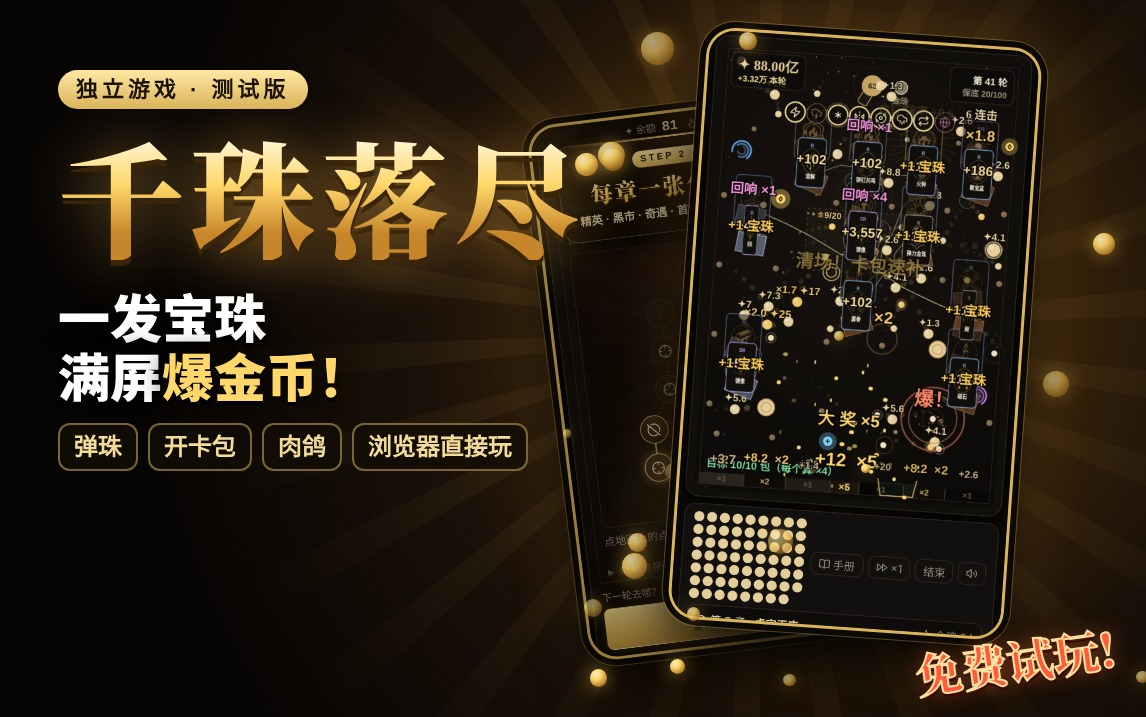
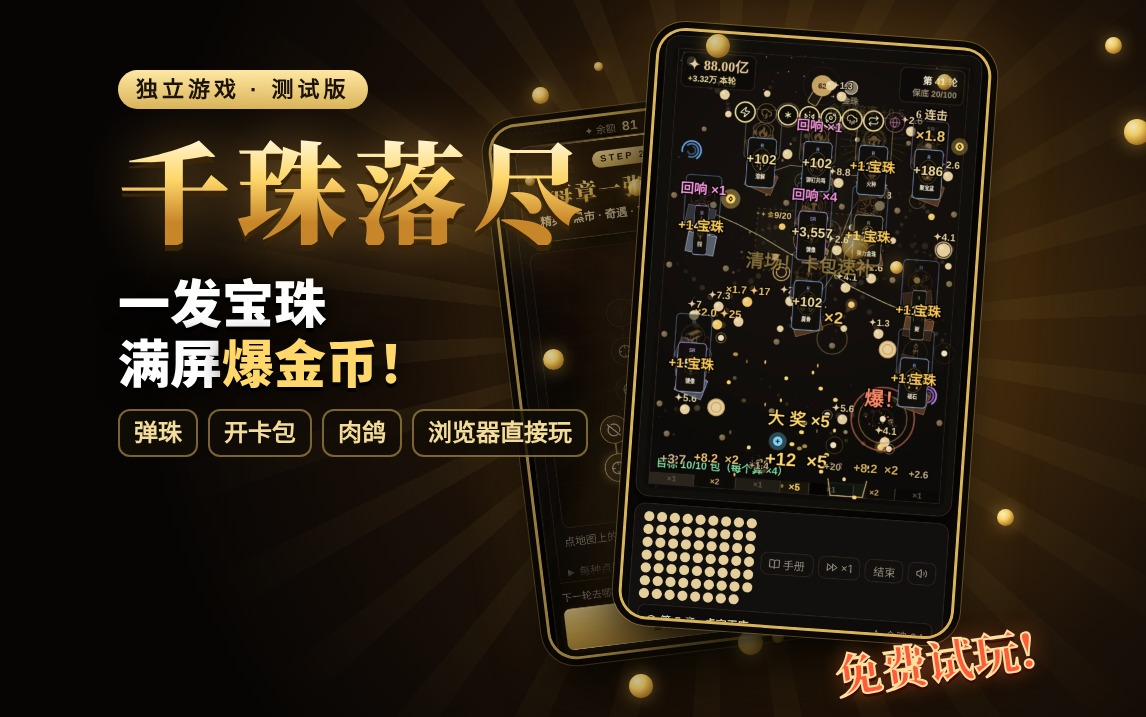
封面：内容内收，4:3 裁切也完整
Claude-Session: https://claude.ai/code/session_019CKp1mKvySnKUieRfVsYmH

diff --git a/promo/cover.html b/promo/cover.html
@@ -1,20 +1,20 @@
 <!doctype html><html><head><meta charset="utf-8"><style>
 *{box-sizing:border-box}body{margin:0;width:1146px;height:717px;overflow:hidden;background:#090604;font-family:'Noto Sans CJK SC',sans-serif}
 .bg{position:absolute;inset:0;background:radial-gradient(circle at 72% 45%,#5a3a0f 0%,#1a1008 45%,#070504 75%)}
-.rays{position:absolute;left:760px;top:330px;width:1400px;height:1400px;margin:-700px;background:repeating-conic-gradient(#ffd76a14 0 4deg,transparent 4deg 12deg);-webkit-mask:radial-gradient(circle,#000 10%,transparent 60%)}
+.rays{position:absolute;left:720px;top:330px;width:1400px;height:1400px;margin:-700px;background:repeating-conic-gradient(#ffd76a14 0 4deg,transparent 4deg 12deg);-webkit-mask:radial-gradient(circle,#000 10%,transparent 60%)}
 .coin{position:absolute;border-radius:50%;background:radial-gradient(circle at 35% 30%,#fff6c8,#ffd76a 35%,#b07a22 75%);box-shadow:0 0 18px #ffcf5a88}
 .ph{position:absolute;top:34px;width:300px;height:533px;border-radius:26px;overflow:hidden;box-shadow:0 0 0 3px #d9b45a,0 0 0 9px #0b0805,0 0 0 10px #d9b45a55,0 30px 60px #000,0 0 80px #ffb84a44}
 .ph img{width:100%;height:100%;object-fit:cover;display:block}
-.p1{left:690px;top:40px;transform:rotate(4deg);z-index:2;width:330px;height:587px}
-.p2{left:560px;top:110px;transform:rotate(-7deg);opacity:.9;filter:brightness(.75)}
-.L{position:absolute;left:58px;top:70px;width:560px;z-index:3}
+.p1{left:640px;top:40px;transform:rotate(4deg);z-index:2;width:330px;height:587px}
+.p2{left:520px;top:110px;transform:rotate(-7deg);opacity:.9;filter:brightness(.75)}
+.L{position:absolute;left:118px;top:70px;width:540px;z-index:3}
 .tag{display:inline-block;font:900 22px/1 sans-serif;letter-spacing:4px;color:#1b1206;background:linear-gradient(180deg,#ffe7a3,#d9b45a);border-radius:999px;padding:9px 18px 8px}
-.t{margin-top:22px;font:900 126px/1.02 'Noto Serif CJK SC',serif;letter-spacing:6px;background:linear-gradient(180deg,#fffbe6,#ffd76a 42%,#c8862a 80%);-webkit-background-clip:text;color:transparent;filter:drop-shadow(0 6px 0 #3a2508) drop-shadow(0 0 30px #ffb84a77)}
+.t{margin-top:22px;font:900 112px/1.02 'Noto Serif CJK SC',serif;letter-spacing:6px;background:linear-gradient(180deg,#fffbe6,#ffd76a 42%,#c8862a 80%);-webkit-background-clip:text;color:transparent;filter:drop-shadow(0 6px 0 #3a2508) drop-shadow(0 0 30px #ffb84a77)}
 .hk{margin-top:26px;font:900 52px/1.15 'Noto Sans CJK SC',sans-serif;color:#fff;text-shadow:0 4px 0 #000,0 0 24px #000}
 .hk b{color:#ffd76a}
 .sb{margin-top:18px;display:flex;gap:10px}
 .sb span{font:700 24px/1 sans-serif;color:#f3dc9a;border:2px solid #d9b45a88;background:#120c06cc;border-radius:12px;padding:10px 14px}
-.boom{position:absolute;right:30px;bottom:34px;z-index:4;font:900 46px/1 'Noto Serif CJK SC',serif;color:#ff5a3a;transform:rotate(-8deg);text-shadow:0 4px 0 #3a0a00,0 0 20px #ff6b3a99;-webkit-text-stroke:2px #ffe0a0}
+.boom{position:absolute;right:110px;bottom:34px;z-index:4;font:900 46px/1 'Noto Serif CJK SC',serif;color:#ff5a3a;transform:rotate(-8deg);text-shadow:0 4px 0 #3a0a00,0 0 20px #ff6b3a99;-webkit-text-stroke:2px #ffe0a0}
 </style></head><body><div class="bg"></div><div class="rays"></div>
 <div class="ph p2"><img src="cov_b.png"></div><div class="ph p1"><img src="cov_a.png"></div>
 <div class="L"><span class="tag">独立游戏 · 测试版</span><div class="t">千珠落尽</div>
